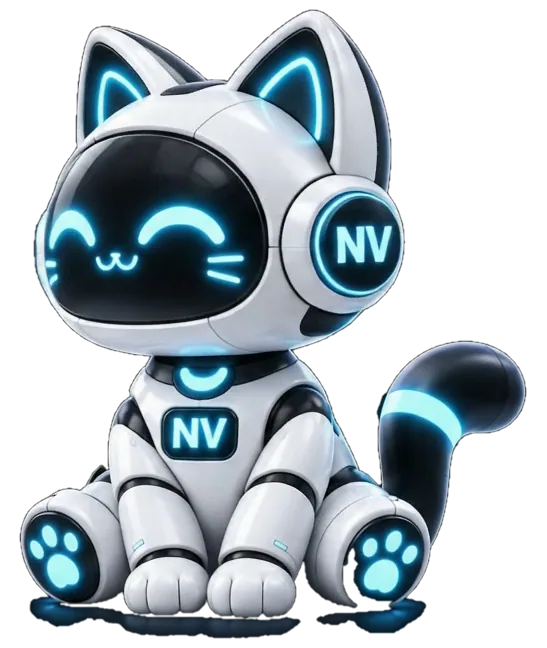
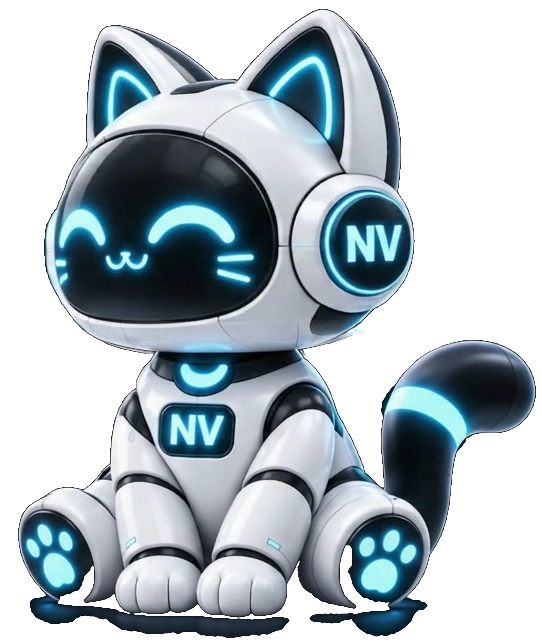
Hero: kunci badan dan ekor Neru, hanya kepala yang menoleh
Claude-Session: https://claude.ai/code/session_01Ru65N5u7ZEGQidY2Kb9121

Changed region(s): [[0.0295, 0.0, 1.0, 0.9938], [0.4133, 0.7764, 0.4428, 0.8075]]

diff --git a/index.html b/index.html
@@ -79,7 +79,7 @@ button{font:inherit}
 @keyframes rise{to{opacity:1;transform:none}}
 .hero .neru{position:absolute;left:calc(var(--u) * 58.4);top:calc(var(--u) * 12.5);width:calc(var(--u) * 39);z-index:3;
   transform:translate3d(0,calc(var(--hp,0) * -110px),0) scale(calc(1 + var(--hp,0) * .08)) rotate(calc(var(--hp,0) * -3deg));will-change:transform}
-.hero .neru{aspect-ratio:547/648;filter:drop-shadow(0 24px 30px rgba(8,8,8,.18))}
+.hero .neru{aspect-ratio:542/644;filter:drop-shadow(0 24px 30px rgba(8,8,8,.18))}
 .hero .neru img,.hero .neru canvas{position:absolute;inset:0;width:100%;height:100%;object-fit:contain}
 .hero .neru canvas{display:none}
 .hero .neru.live canvas{display:block}
@@ -245,7 +245,7 @@ footer{z-index:6;padding:clamp(80px,8vw,110px) var(--pad) 48px;box-shadow:0 -12p
   <h1 class="title" id="h1" aria-label="NERUVIA">
     <span style="--i:0" aria-hidden="true">N</span><span style="--i:1" aria-hidden="true">E</span><span style="--i:2" aria-hidden="true">R</span><span style="--i:3" aria-hidden="true">U</span><span style="--i:4" aria-hidden="true">V</span><span style="--i:5" aria-hidden="true">I</span><span style="--i:6" aria-hidden="true">A</span>
   </h1>
-  <div class="neru" id="neru"><img src="assets/neru.webp" width="1024" height="1272" alt="Neru, maskot NERUVIA, robot kucing berheadphone dengan mata cyan menyala" fetchpriority="high"><canvas width="547" height="648" aria-hidden="true"></canvas></div>
+  <div class="neru" id="neru"><img src="assets/neru.webp" width="1024" height="1272" alt="Neru, maskot NERUVIA, robot kucing berheadphone dengan mata cyan menyala" fetchpriority="high"><canvas width="542" height="644" aria-hidden="true"></canvas></div>
   <div class="copy">
     <p class="lead">Belajar AI &amp; Cybersecurity, dari nol, dalam bahasa Indonesia.</p>
     <div class="btns">

diff --git a/README.md b/README.md
@@ -34,4 +34,4 @@ Harga, nama jalur, dan teks legal masih placeholder dan perlu ditinjau sebelum r
 - Logo NV dipakai inline (SVG `currentColor`) di navbar dan footer, ikon tab dari `assets/brand/`
 - `assets/brand/` — logo NV dan wordmark NERUVIA (SVG dan PNG) berwarna cyan `#38E1FF` dan hitam `#080808`
 - `assets/brand/maskot/` — tiga gambar maskot Neru terbaru (18 Nov 2026): miring kanan, depan, miring kiri
-- `assets/maskot-animasi/` — animasi Neru menoleh (dibuat dari video Gemini, 18 Nov 2026), latar transparan: `neru-menoleh.webm` (0,7 MB, paling ringan), `neru-menoleh-web.webp` (5,5 MB, cadangan untuk browser tanpa WebM alpha), dan `neru-menoleh-sumber.mp4` (video asli berlatar hitam, bahan untuk membuat ulang). Folder `frames/` berisi 21 frame (f00–f20, urut dari menoleh paling kiri ke paling kanan) yang dipakai hero: Neru menoleh ke arah kursor lewat `<canvas>` (hanya untuk mouse; di layar sentuh ia menoleh pelan sendiri; `prefers-reduced-motion` dan tanpa JS memakai gambar diam `assets/neru.webp`). Neru di bagian Cara belajar tidak diubah.
+- `assets/maskot-animasi/` — animasi Neru menoleh (dibuat dari video Gemini, 18 Nov 2026), latar transparan: `neru-menoleh.webm` (0,7 MB, paling ringan), `neru-menoleh-web.webp` (5,5 MB, cadangan untuk browser tanpa WebM alpha), dan `neru-menoleh-sumber.mp4` (video asli berlatar hitam, bahan untuk membuat ulang). Folder `frames/` berisi 21 frame (badan dan ekor dikunci dari satu pose, hanya kepala yang berganti) (f00–f20, urut dari menoleh paling kiri ke paling kanan) yang dipakai hero: Neru menoleh ke arah kursor lewat `<canvas>` (hanya untuk mouse; di layar sentuh ia menoleh pelan sendiri; `prefers-reduced-motion` dan tanpa JS memakai gambar diam `assets/neru.webp`). Neru di bagian Cara belajar tidak diubah.
